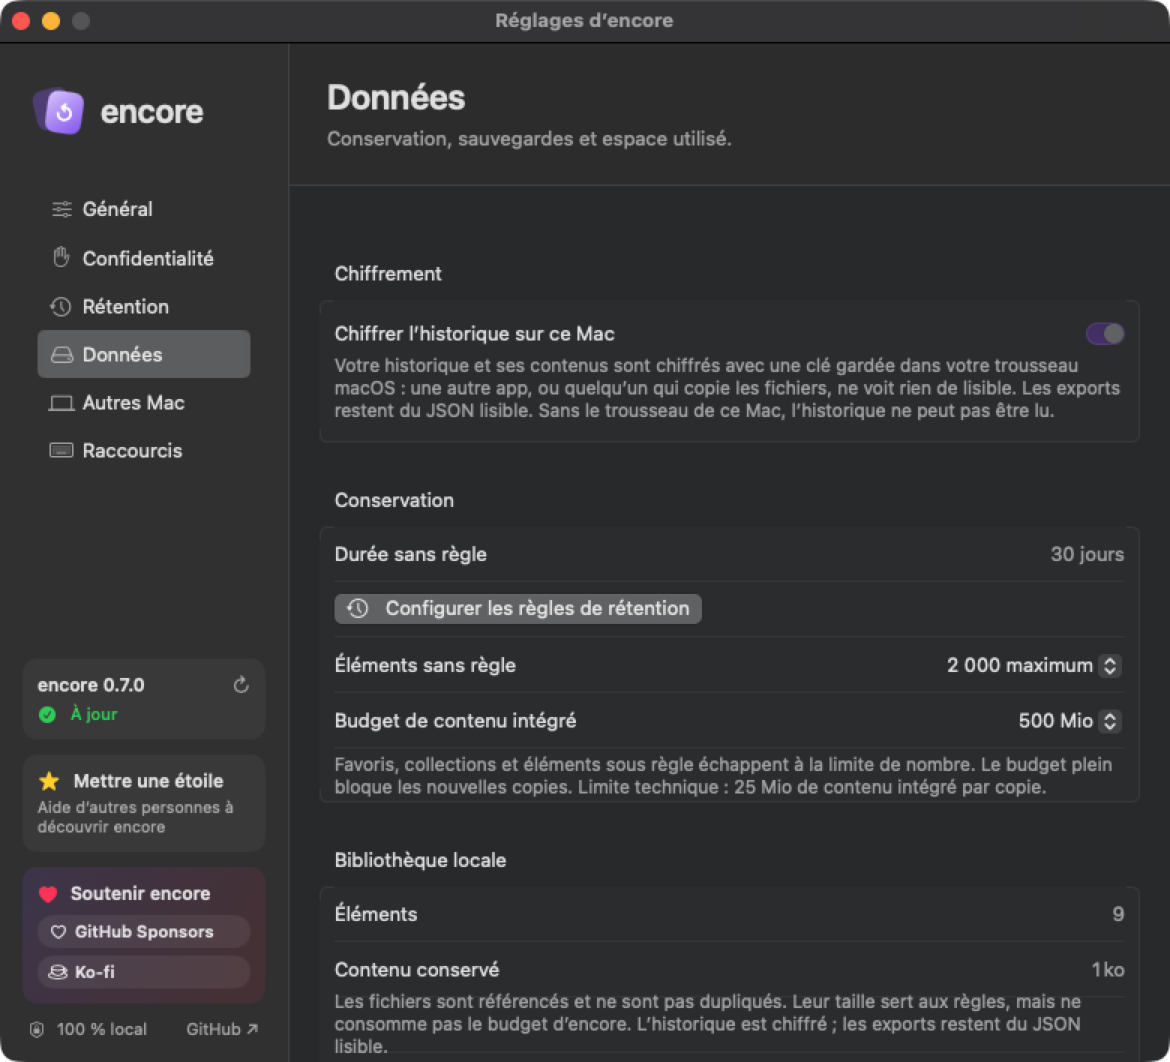
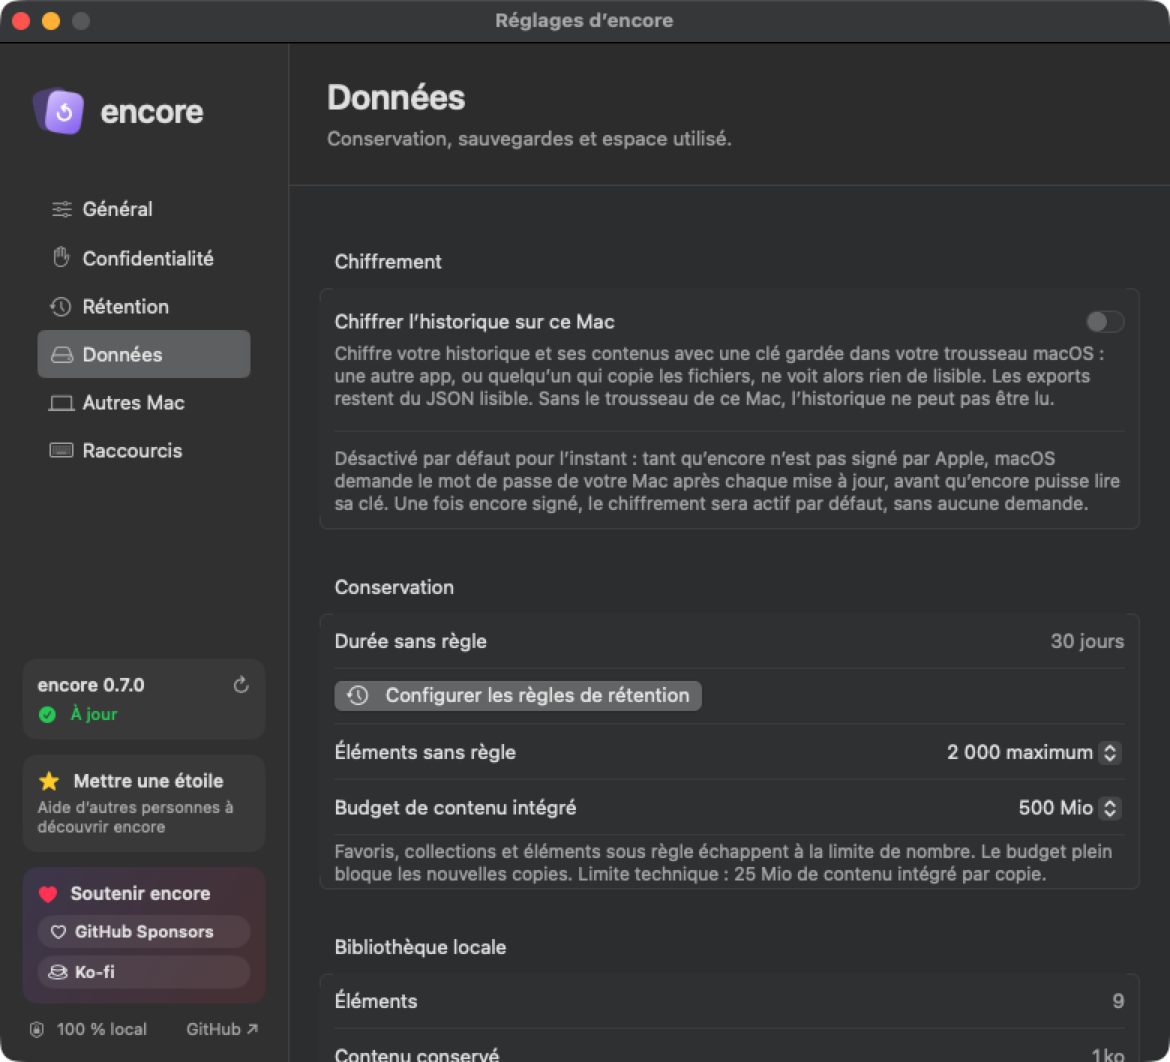
Say everywhere that history encryption is optional and off until encore is signed by Apple, and advise exporting before changing Mac

Changed region(s): [[0.2769, 0.2175, 0.9538, 1.0], [0.9231, 0.9944, 0.9846, 1.0], [0.9231, 0.9011, 0.9538, 0.9322]]

diff --git a/website/build.py b/website/build.py
@@ -41,7 +41,7 @@ STRINGS = {
         "copy": "Copy", "copied": "Copied",
         "sound_on": "Turn sound on", "sound_off": "Mute",
         "video": "The encore launch video",
-        "new_tag": "New in 0.7", "new": "Your history, encrypted on your disk",
+        "new_tag": "New in 0.7", "new": "Encrypt your history, and paste in the order you pick",
         "snippets": ["Snippets", "On every Mac"],
         "snippets_text": "Press ⌘S on any card: a name, a language (encore guesses it among 85) and tags. Placeholders like {{name}} ask for a value before pasting. Your snippets and favorites stay in step between your paired Macs.",
         "snippets_video": "Snippets in encore 0.5",
@@ -95,7 +95,7 @@ STRINGS = {
         "copy": "Copier", "copied": "Copié",
         "sound_on": "Activer le son", "sound_off": "Couper le son",
         "video": "La vidéo de lancement d’encore",
-        "new_tag": "Nouveautés · 0.7", "new": "Ton historique, chiffré sur ton disque",
+        "new_tag": "Nouveautés · 0.7", "new": "Chiffre ton historique, et colle dans l’ordre choisi",
         "snippets": ["Snippets", "Sur tous tes Mac"],
         "snippets_text": "⌘S sur n’importe quelle carte : un nom, un langage (encore le devine parmi 85) et des tags. Les placeholders comme {{nom}} te demandent une valeur avant de coller. Tes snippets et tes favoris restent synchronisés entre tes Mac appairés.",
         "snippets_video": "Les snippets dans encore 0.5",
@@ -153,9 +153,9 @@ PRIVACY = {
         # The three guarantees, before the details: each claim must hold in the code.
         "summary": "In short",
         "more": "The details",
-        "facts": ["100% local", "Encrypted", "No account", "No server", "No tracking", "Open source"],
+        "facts": ["100% local", "Optional encryption", "No account", "No server", "No tracking", "Open source"],
         "guarantees": [
-            ("What stays local", "Everything. Your history lives on your Mac, encrypted, with no account and no server. Only the update check reaches GitHub."),
+            ("What stays local", "Everything. Your history lives on your Mac, with no account and no server. Only the update check reaches GitHub."),
             ("What is left out", "Copies that apps mark as confidential, the password apps installed on your Mac, and any app you add. Copies cleared by their app are forgotten."),
             ("What you can turn off", "Capture, in one click from the menu bar. Text recognition. Sharing with your other Macs, off by default. And you can clear everything, any time."),
         ],
@@ -169,7 +169,7 @@ PRIVACY = {
         },
         "blocks": [
             ("Everything stays on your Mac", [
-                "What you copy is kept in a single folder on your Mac: <code>~/Library/Application Support/Encore/</code>, encrypted with a key kept in your keychain: another app, or someone who copies the folder, sees nothing readable. You can turn this off in Settings → Data.",
+                "What you copy is kept in a single folder on your Mac: <code>~/Library/Application Support/Encore/</code>. Only your macOS account can open it. Since 0.7, you can also encrypt it with a key kept in your keychain, in Settings → Data: another app, or someone who copies the folder, then sees nothing readable. Changing Mac? Export your history first, or use Migration Assistant, which brings the keychain along: without it, an encrypted history cannot be read.",
                 "No account to create, no usage statistics, no ads. encore does not even load the links you copy: it shows them as they are.",
                 "Text inside your images is recognized by macOS itself, on your Mac. Nothing is sent anywhere to be analyzed.",
             ], None, ""),
@@ -196,7 +196,7 @@ PRIVACY = {
         "honest": [
             then_now("Before and after 0.7", "Before 0.7", "Since 0.7",
                      "<strong>Your history is not encrypted on disk.</strong> It is protected by your macOS account, and by FileVault when it is on: check System Settings → Privacy & Security → FileVault. Software running under your account could read it, as with most clipboard managers. Encrypting it is on the list.",
-                     "<strong><s>Your history is not encrypted on disk.</s></strong> Since 0.7, it is, by default, with a key kept in your keychain: a backup or a copy of the folder shows nothing readable. Exports stay readable JSON, so your data is never locked in: store them like any sensitive file. And while encore runs, it reads what you copy, so software that already controls your session could too, as with any clipboard manager."),
+                     "<strong>Your history is not encrypted by default.</strong> Since 0.7, you can encrypt it in Settings → Data, with a key kept in your keychain. It is off by default for now: until encore is signed by Apple, macOS would ask for your Mac password after each update, and encore is updated often. That gets tiring, and can even look suspicious. Once encore is signed, encryption will be on by default, with no prompt. Exports stay readable JSON, so your data is never locked in: store them like any sensitive file. And while encore runs, it reads what you copy, so software that already controls your session could too, as with any clipboard manager."),
             "<strong>encore is not notarized by Apple yet.</strong> To notarize an app, Apple asks for a developer membership at $99 a year. encore is a free personal project that earns me nothing, so until then the first launch needs “Open Anyway” in System Settings, once. If a small community gets behind it, that is the first thing its support will pay for, and the same account could also bring encore to the Mac App Store. You can <a href='" + SPONSORS + "'>support encore on GitHub Sponsors</a> or <a href='" + KOFI + "'>Ko-fi</a>.",
             "<strong>There is just me behind encore.</strong> I build it in the evenings, alongside my day job and my family life. There is no team and no guaranteed support: I fix things as fast as those evenings allow, starting with anything that touches security or your data. That is also why everything is open: anyone can report a problem, propose a fix on GitHub, or contribute.",
         ],
@@ -224,9 +224,9 @@ PRIVACY = {
         "lead": "encore voit tout ce que tu copies : des messages, des adresses, parfois des choses sensibles. Alors voici, simplement et sans jargon, ce qu’il en fait, ce qu’il n’en fait jamais, et ce qui n’est pas encore parfait.",
         "summary": "En bref",
         "more": "Les détails",
-        "facts": ["100 % local", "Chiffré", "Sans compte", "Sans serveur", "Sans pistage", "Open source"],
+        "facts": ["100 % local", "Chiffrement en option", "Sans compte", "Sans serveur", "Sans pistage", "Open source"],
         "guarantees": [
-            ("Ce qui reste local", "Tout. Ton historique vit sur ton Mac, chiffré, sans compte ni serveur. Seule la vérification des mises à jour contacte GitHub."),
+            ("Ce qui reste local", "Tout. Ton historique vit sur ton Mac, sans compte ni serveur. Seule la vérification des mises à jour contacte GitHub."),
             ("Ce qui est exclu", "Les copies que les apps marquent comme confidentielles, les apps de mots de passe installées et toutes celles que tu ajoutes. Les copies effacées par leur app sont oubliées."),
             ("Ce que tu peux couper", "La capture, en un clic depuis la barre des menus. La reconnaissance de texte. Le partage avec tes autres Mac, coupé par défaut. Et tout effacer, quand tu veux."),
         ],
@@ -240,7 +240,7 @@ PRIVACY = {
         },
         "blocks": [
             ("Tout reste sur ton Mac", [
-                "Ce que tu copies est rangé dans un seul dossier de ton Mac : <code>~/Library/Application Support/Encore/</code>, chiffré avec une clé gardée dans ton trousseau : une autre app, ou quelqu’un qui copie le dossier, ne voit rien de lisible. Tu peux le désactiver dans Réglages → Données.",
+                "Ce que tu copies est rangé dans un seul dossier de ton Mac : <code>~/Library/Application Support/Encore/</code>. Seule ta session macOS peut l’ouvrir. Depuis la 0.7, tu peux aussi le chiffrer avec une clé gardée dans ton trousseau, dans Réglages → Données : une autre app, ou quelqu’un qui copie le dossier, ne voit alors rien de lisible. Tu changes de Mac ? Exporte d’abord ton historique, ou passe par l’Assistant migration, qui emporte aussi le trousseau : sans lui, un historique chiffré ne peut pas être lu.",
                 "Pas de compte à créer, pas de statistiques d’utilisation, pas de publicité. encore ne charge même pas les liens que tu copies : il les affiche tels quels.",
                 "Le texte de tes images est reconnu par macOS lui-même, sur ton Mac. Rien n’est envoyé ailleurs pour être analysé.",
             ], None, ""),
@@ -267,7 +267,7 @@ PRIVACY = {
         "honest": [
             then_now("Avant et depuis la 0.7", "Avant la 0.7", "Depuis la 0.7",
                      "<strong>Ton historique n’est pas chiffré sur le disque.</strong> Il est protégé par ta session macOS, et par FileVault s’il est activé : vérifie dans Réglages Système → Confidentialité et sécurité → FileVault. Un logiciel qui tourne sous ta session pourrait le lire, comme avec la plupart des gestionnaires de presse-papiers. Le chiffrer est sur la liste.",
-                     "<strong><s>Ton historique n’est pas chiffré sur le disque.</s></strong> Depuis la 0.7, il l’est, par défaut, avec une clé gardée dans ton trousseau : une sauvegarde ou une copie du dossier ne montre rien de lisible. Les exports restent du JSON lisible, pour que tes données ne soient jamais prisonnières : range-les comme n’importe quel fichier sensible. Et pendant qu’encore tourne, il lit ce que tu copies : un logiciel qui contrôle déjà ta session pourrait le faire aussi, comme avec tout gestionnaire de presse-papiers."),
+                     "<strong>Ton historique n’est pas chiffré par défaut.</strong> Depuis la 0.7, tu peux le chiffrer dans Réglages → Données, avec une clé gardée dans ton trousseau. C’est désactivé par défaut pour l’instant : tant qu’encore n’est pas signé par Apple, macOS demanderait le mot de passe de ton Mac après chaque mise à jour, et encore en reçoit souvent. C’est vite pénible, et ça peut même paraître louche. Dès qu’encore sera signé, le chiffrement sera actif par défaut, sans aucune demande. Les exports restent du JSON lisible, pour que tes données ne soient jamais prisonnières : range-les comme n’importe quel fichier sensible. Et pendant qu’encore tourne, il lit ce que tu copies : un logiciel qui contrôle déjà ta session pourrait le faire aussi, comme avec tout gestionnaire de presse-papiers."),
             "<strong>encore n’est pas encore notarisé par Apple.</strong> Pour notariser une app, Apple demande un abonnement développeur à 99 $ par an. encore est un projet personnel et gratuit qui ne me rapporte rien : en attendant, il faut passer une fois par « Ouvrir quand même » dans les Réglages Système. Si une petite communauté se forme autour du projet, c’est la première chose que son soutien financera, et le même compte permettrait aussi de le proposer sur le Mac App Store. Tu peux le <a href='" + SPONSORS + "'>soutenir sur GitHub Sponsors</a> ou <a href='" + KOFI + "'>Ko-fi</a>.",
             "<strong>Derrière encore, il n’y a que moi.</strong> Je le développe le soir, à côté de mon travail et de ma vie de famille. Il n’y a ni équipe ni support garanti : je corrige aussi vite que ces soirées le permettent, en commençant par tout ce qui touche à la sécurité ou à tes données. C’est aussi pour ça que tout est ouvert : n’importe qui peut signaler un problème, proposer une correction sur GitHub ou contribuer.",
         ],

diff --git a/website/features.py b/website/features.py
@@ -32,8 +32,8 @@ FEATURES = {
              "Pair two Macs on the same network with a 6-digit code, and each one appears as a tab: browse the other Mac's recent copies and paste them as if they were yours. Since 0.5, favorites and snippets can stay in step between your Macs. The connection is end-to-end encrypted, keys stay on each Mac, and there is no server or account."),
             ("privacy", "0.2", "settings-privacy.png", "Private by design",
              "Everything stays on your Mac: no account, no telemetry, no link loaded behind your back. Password managers are left out, and content that apps mark as confidential is never recorded. <a href='{privacy}'>Read how your data is handled, in plain words</a>."),
-            ("encryption", "0.7.0", "settings-data.png", "Encrypted on your disk",
-             "Your history is encrypted on your Mac, with a key kept in your keychain: another app reading the folder, a backup or a copy of your disk shows nothing readable. It is on from the first launch, and an existing history is converted in place. You can turn it off in Settings → Data, after a warning that says what it exposes. Exports stay readable JSON, so your data is never locked in."),
+            ("encryption", "0.7.0", "settings-data.png", "Encrypted on your disk, if you want",
+             "Turn on encryption in Settings → Data and your history is encrypted on your Mac, with a key kept in your keychain: another app reading the folder, or a copy of it, shows nothing readable. Your existing history is converted in place. It is off by default for now: until encore is signed by Apple, macOS asks for your Mac password after each update before encore can read its key, and encore is updated often. Once encore is signed, it will be on by default, with no prompt. Exports stay readable JSON, so your data is never locked in."),
             ("passwords", "0.6.1", "secrets.png", "Your passwords stay out of it",
              "Browser extensions like Bitwarden in Firefox copy as the browser and mark nothing. When the extension clears the clipboard after a copy (Settings → Options → Clear clipboard), encore forgets that copy too. And if you turn on detection, copies that look like passwords, API keys, tokens or card numbers are masked, showing only their first characters, then deleted after the delay you choose. They still paste, and never reach your other Macs. It is a guess: an ordinary copy can be taken for a secret. When a card disappears, it dissolves into dust and its neighbors slide into place."),
             ("preview", "0.4", "preview.png", "See before you paste",
@@ -98,8 +98,8 @@ FEATURES = {
              "Appaire deux Mac du même réseau avec un code à 6 chiffres, et chacun apparaît dans un onglet : parcours les dernières copies de l’autre Mac et colle-les comme si c’étaient les tiennes. Depuis la 0.5, favoris et snippets peuvent rester synchronisés entre tes Mac. La connexion est chiffrée de bout en bout, les clés restent sur chaque Mac, et il n’y a ni serveur ni compte."),
             ("privacy", "0.2", "settings-privacy.png", "Privé par conception",
              "Tout reste sur ton Mac : pas de compte, pas de télémétrie, aucun lien chargé dans ton dos. Les gestionnaires de mots de passe sont écartés, et ce que les apps marquent comme confidentiel n’est jamais enregistré. <a href='{privacy}'>Lis comment tes données sont traitées, sans jargon</a>."),
-            ("encryption", "0.7.0", "settings-data.png", "Chiffré sur ton disque",
-             "Ton historique est chiffré sur ton Mac, avec une clé gardée dans ton trousseau : une autre app qui lit le dossier, une sauvegarde ou une copie de ton disque ne voit rien de lisible. C’est actif dès le premier lancement, et un historique existant est converti sur place. Tu peux le désactiver dans Réglages → Données, après un avertissement qui dit ce que ça expose. Les exports restent du JSON lisible, pour que tes données ne soient jamais prisonnières."),
+            ("encryption", "0.7.0", "settings-data.png", "Chiffré sur ton disque, si tu veux",
+             "Active le chiffrement dans Réglages → Données et ton historique est chiffré sur ton Mac, avec une clé gardée dans ton trousseau : une autre app qui lit le dossier, ou une copie de celui-ci, ne voit rien de lisible. Ton historique existant est converti sur place. C’est désactivé par défaut pour l’instant : tant qu’encore n’est pas signé par Apple, macOS demande le mot de passe de ton Mac après chaque mise à jour avant qu’encore puisse lire sa clé, et encore en reçoit souvent. Dès qu’encore sera signé, ce sera actif par défaut, sans aucune demande. Les exports restent du JSON lisible, pour que tes données ne soient jamais prisonnières."),
             ("passwords", "0.6.1", "secrets.png", "Tes mots de passe restent à l’écart",
              "Les extensions comme Bitwarden dans Firefox copient au nom du navigateur et ne signalent rien. Quand l’extension vide le presse-papiers après une copie (Paramètres → Options → Effacer le presse-papiers), encore oublie aussi cette copie. Et si tu actives la détection, les copies qui ressemblent à des mots de passe, clés d’API, jetons ou numéros de carte sont masquées, seuls leurs premiers caractères restent visibles, puis supprimées après le délai de ton choix. Elles se collent toujours et ne partent jamais vers tes autres Mac. C’est une estimation : une copie ordinaire peut être prise pour un secret. Quand une tuile disparaît, elle se désagrège en poussière et ses voisines referment l’espace."),
             ("preview", "0.4", "preview.png", "Voir avant de coller",
@@ -159,8 +159,8 @@ RELEASES = {
         "pace": "{} versions in {} days",
         "latest": "Latest",
         "items": [
-            ("0.7.0", "2026-10-31", "settings-data.png", "Your history, encrypted on your disk.", [
-                ("new", "<b>Encrypted history.</b> Your history is encrypted on your Mac with ChaCha20-Poly1305, under a key kept in your keychain: a backup or a copy of the folder shows nothing readable. On by default, and an existing history is converted at the first launch. Settings → Data turns it off, after a warning. Exports stay readable JSON. To go back to 0.6, turn encryption off first."),
+            ("0.7.0", "2026-10-31", "settings-data.png", "Encrypt your history, and paste several cards in the order you pick.", [
+                ("new", "<b>Encrypted history, if you want.</b> Settings → Data encrypts your history on your Mac with ChaCha20-Poly1305, under a key kept in your keychain: a copy of the folder shows nothing readable. Off by default for now: until encore is signed by Apple, macOS asks for your Mac password after each update before encore can read its key, and encore is updated often. Once encore is signed, it will be on by default, with no prompt. Exports stay readable JSON. To go back to 0.6, turn encryption off first."),
                 ("new", "<b>Pasted in the order you pick.</b> Select several cards with <kbd>⌘</kbd>-click or <kbd>⇧</kbd>: each one shows its number, and they paste in that order. The compact window selects several copies too, with <kbd>⇧↑</kbd> <kbd>⇧↓</kbd>."),
                 ("better", "<b>Fast with 10,000 copies.</b> A click selects at once, without waiting for a possible double-click. Search, day sections and favorites stay quick with a history of 10,000 copies, and the history file is written at most once a second."),
                 ("better", "Every icon-only button has a name for VoiceOver, and selected cards say where they will be pasted."),
@@ -246,8 +246,8 @@ RELEASES = {
         "pace": "{} versions en {} jours",
         "latest": "Dernière version",
         "items": [
-            ("0.7.0", "2026-10-31", "settings-data.png", "Ton historique, chiffré sur ton disque.", [
-                ("new", "<b>Historique chiffré.</b> Ton historique est chiffré sur ton Mac avec ChaCha20-Poly1305, sous une clé gardée dans ton trousseau : une sauvegarde ou une copie du dossier ne montre rien de lisible. Actif par défaut, et un historique existant est converti au premier lancement. Réglages → Données le désactive, après un avertissement. Les exports restent du JSON lisible. Pour revenir à la 0.6, désactive d’abord le chiffrement."),
+            ("0.7.0", "2026-10-31", "settings-data.png", "Chiffre ton historique, et colle plusieurs cartes dans l’ordre choisi.", [
+                ("new", "<b>Historique chiffré, si tu veux.</b> Réglages → Données chiffre ton historique sur ton Mac avec ChaCha20-Poly1305, sous une clé gardée dans ton trousseau : une copie du dossier ne montre rien de lisible. Désactivé par défaut pour l’instant : tant qu’encore n’est pas signé par Apple, macOS demande le mot de passe de ton Mac après chaque mise à jour avant qu’encore puisse lire sa clé, et encore en reçoit souvent. Dès qu’encore sera signé, ce sera actif par défaut, sans aucune demande. Les exports restent du JSON lisible. Pour revenir à la 0.6, désactive d’abord le chiffrement."),
                 ("new", "<b>Collé dans l’ordre choisi.</b> Sélectionne plusieurs cartes avec <kbd>⌘</kbd>-clic ou <kbd>⇧</kbd> : chacune affiche son numéro, et elles se collent dans cet ordre. La fenêtre compacte sélectionne aussi plusieurs copies, avec <kbd>⇧↑</kbd> <kbd>⇧↓</kbd>."),
                 ("better", "<b>Rapide avec 10 000 copies.</b> Un clic sélectionne aussitôt, sans attendre un éventuel double-clic. La recherche, les sections par jour et les favoris restent vifs avec un historique de 10 000 copies, et le fichier d’historique est écrit au plus une fois par seconde."),
                 ("better", "Chaque bouton fait d’une seule icône a un nom pour VoiceOver, et les cartes sélectionnées disent à quelle place elles seront collées."),

diff --git a/SECURITY.md b/SECURITY.md
@@ -2,7 +2,7 @@
 
 Clipboard history can contain sensitive data. encore excludes common password managers and pasteboard content marked confidential or temporary by default, but cannot reliably detect every secret. Browser extensions may omit these markers. Exclude the host application when needed.
 
-Since 0.7, the library and its contents are encrypted on disk with ChaCha20-Poly1305, under a 256-bit key kept in the login keychain; this can be turned off in Settings → Data. Exported JSON backups are not encrypted. Encryption at rest protects copies of the files; it does not protect against software that already runs as the user while encore is open, since encore itself reads the clipboard. Pairing keys for other Macs are kept in a separate file readable only by the user. File references can outlive, or lose access to, their source files.
+Since 0.7, the library and its contents can be encrypted on disk with ChaCha20-Poly1305, under a 256-bit key kept in the login keychain (Settings → Data). It is off by default: without an Apple Team ID, the keychain ties the item to each build, so macOS asks for the user's password after every update. It will be on by default once encore is signed by Apple. Exported JSON backups are not encrypted. Encryption at rest protects copies of the files; it does not protect against software that already runs as the user while encore is open, since encore itself reads the clipboard. Pairing keys for other Macs are kept in a separate file readable only by the user. File references can outlive, or lose access to, their source files.
 
 The initial release is ad-hoc signed, is not notarized, and has not undergone an independent security audit. Do not rely on encore as a password or secrets manager.
 

diff --git a/README.md b/README.md
@@ -108,7 +108,7 @@ Files are referenced rather than copied into encore, so a multi-gigabyte file us
 
 The full picture, including what encore does not do yet, is on the website: **[Your data, in plain words](https://kamasoutra.github.io/encore/privacy/)**.
 
-History lives in `~/Library/Application Support/Encore/` and never leaves your Mac unless you turn on sharing. There is no account, telemetry, or remote link preview. Since 0.7 the history is **encrypted on disk** with a key kept in your keychain (Settings → Data turns it off, with a warning). Exported backups stay readable JSON.
+History lives in `~/Library/Application Support/Encore/` and never leaves your Mac unless you turn on sharing. There is no account, telemetry, or remote link preview. Since 0.7 the history can be **encrypted on disk** with a key kept in your keychain, in Settings → Data. It is off by default for now: encore is not signed by Apple yet, so macOS ties the key to each build and asks for your Mac password after every update. Once encore is signed, encryption will be on by default. Exported backups stay readable JSON.
 
 encore makes two kinds of network requests, both optional:
 
